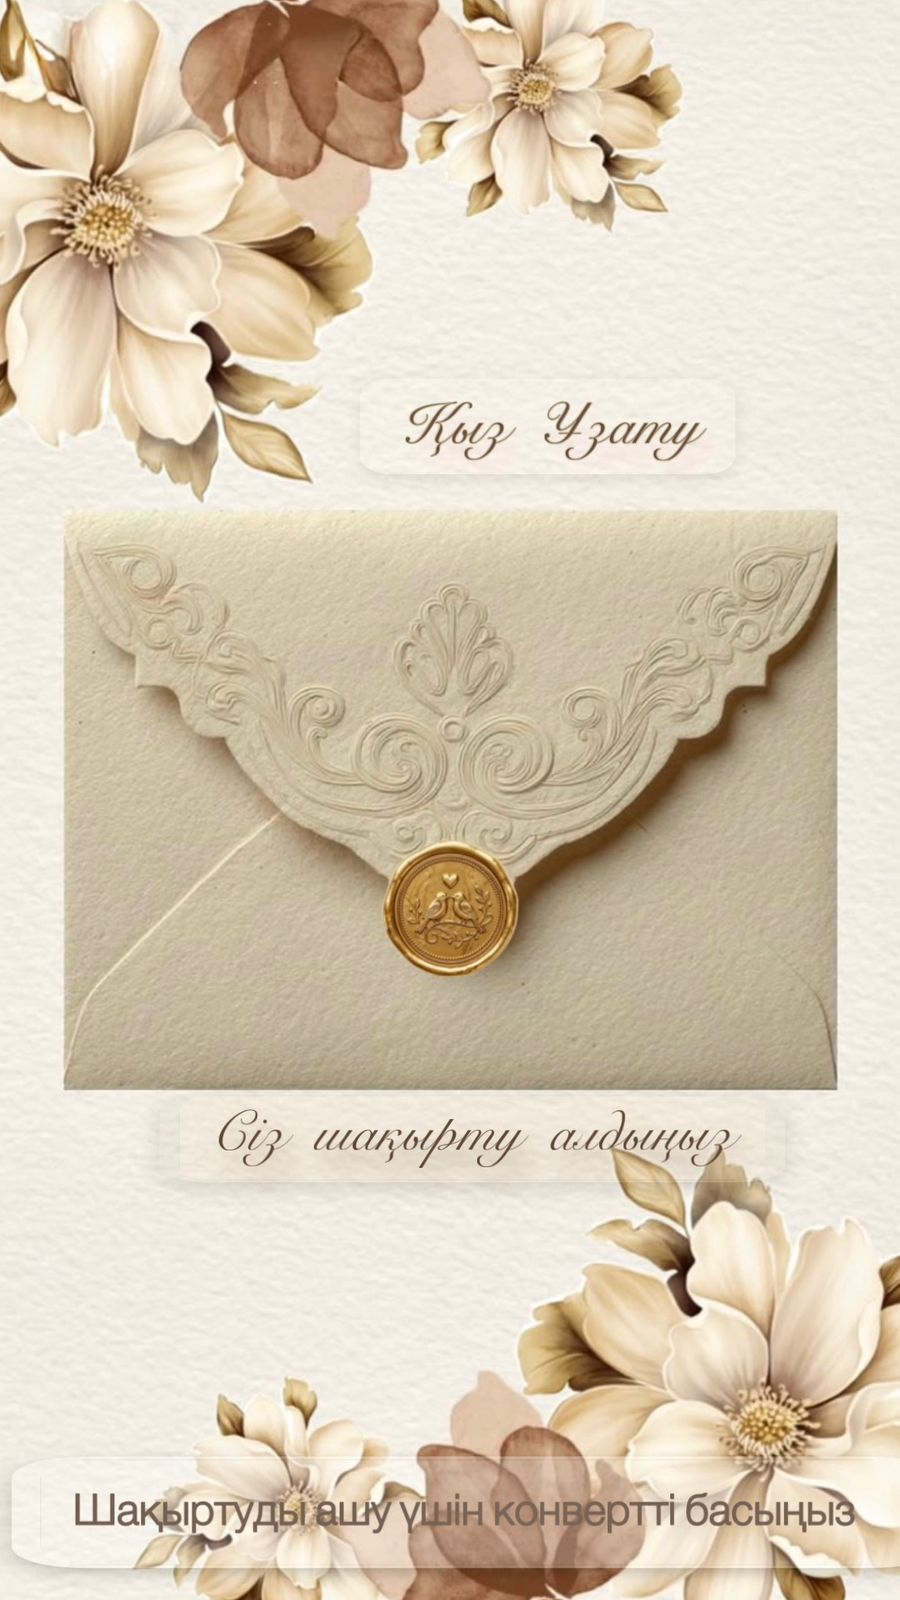
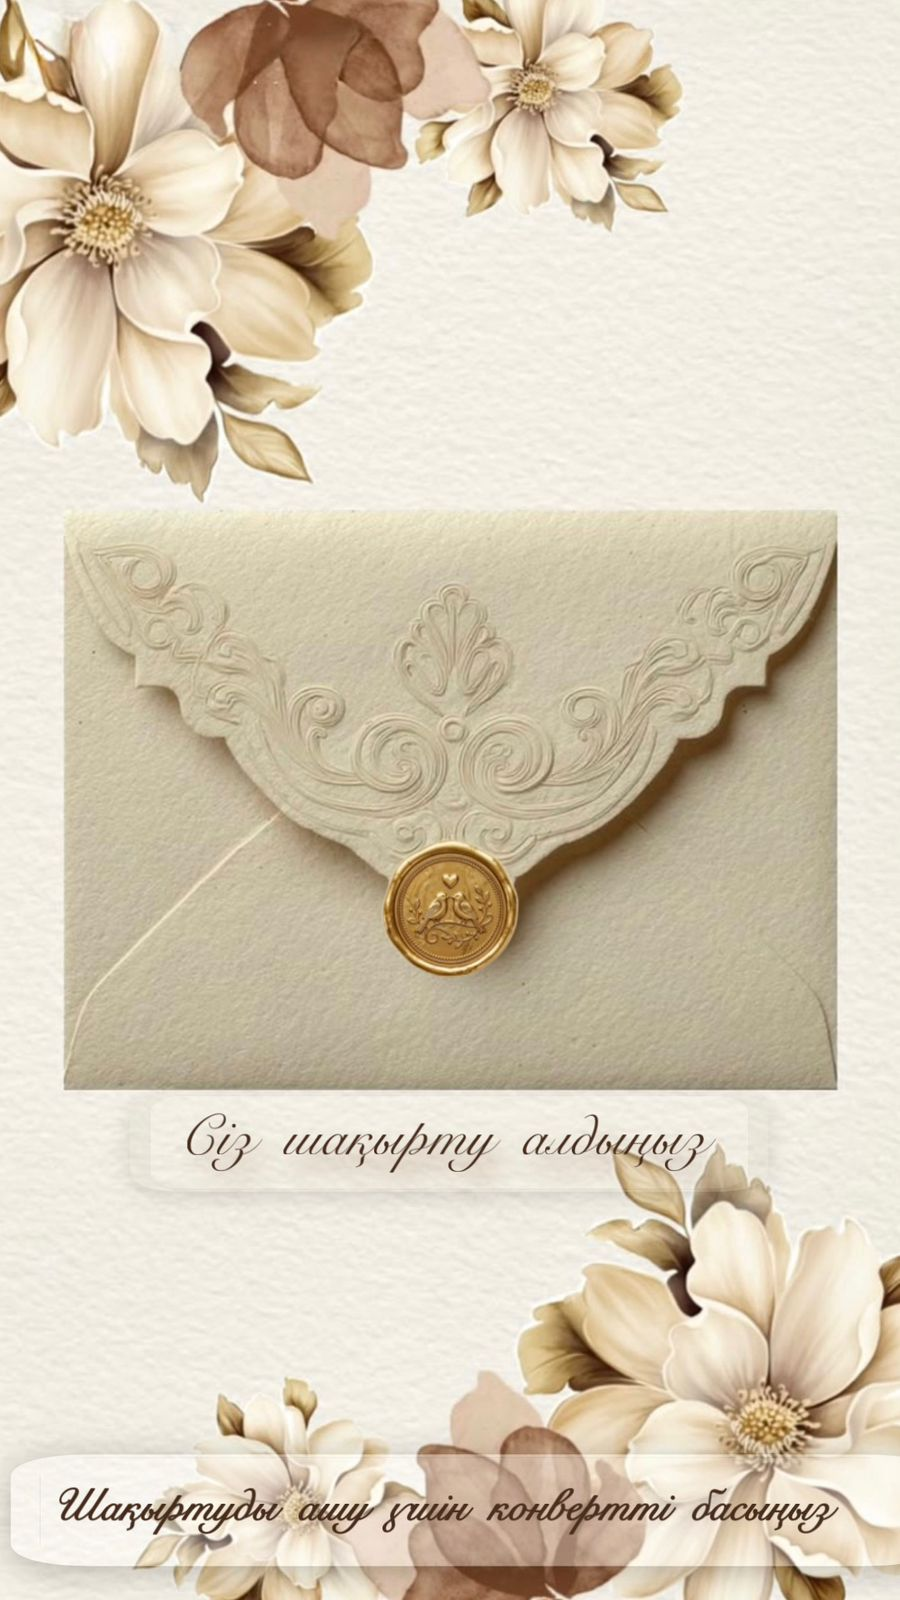
added new png

diff --git a/index.html b/index.html
@@ -486,23 +486,14 @@
 <main id="main" style="display:none;max-width:560px;margin:0 auto;position:relative;">
 
   <!-- ── С1: Заголовочное фото (img/title.jpg) ── -->
-  <section style="line-height:0;display:block;overflow:hidden;">
+  <section style="line-height:0;display:block;overflow:hidden;position:relative;">
     <img class="kenburns" src="img/title.jpg" alt="Гульфайруз — Қыз ұзату" style="width:100%;display:block;object-fit:cover;">
+    <div aria-hidden="true" style="position:absolute;left:0;right:0;bottom:0;height:14%;background:linear-gradient(to bottom, rgba(252,250,245,0) 0%, rgba(252,250,245,.55) 55%, #FCFAF5 100%);pointer-events:none;"></div>
   </section>
 
-  <!-- ── С2: Приветствие ── -->
-  <section data-reveal="greet" class="has-petals" style="
-    background:#EEE4D4;
-    padding:clamp(44px,11vw,68px) clamp(22px,7vw,38px) clamp(38px,9vw,56px);
-    text-align:center;
-    opacity:0;transform:translateY(28px);transition:opacity .6s cubic-bezier(.22,1,.36,1),transform .6s cubic-bezier(.22,1,.36,1);">
-
-    <!-- парящие лепестки -->
-    <div class="petals" aria-hidden="true"><i></i><i></i><i></i><i></i><i></i><i></i></div>
-    <div class="edge-orn eo-right" style="top:9%"></div>
-
-    <!-- Казахский медальон (орнамент) -->
-    <div style="margin:0 auto clamp(20px,5.5vw,30px);width:clamp(110px,32vw,158px);height:clamp(110px,32vw,158px);">
+  <!-- Казахский медальон (орнамент) — ровно на стыке первой и второй картинок -->
+  <div style="position:relative;height:0;">
+    <div style="position:absolute;top:0;left:50%;transform:translate(-50%,-50%);z-index:5;width:clamp(84px,24vw,120px);height:clamp(84px,24vw,120px);filter:drop-shadow(0 2px 6px rgba(60,30,20,.25));">
       <svg class="orn-spin" viewBox="0 0 200 200" width="100%" height="100%" fill="none" xmlns="http://www.w3.org/2000/svg">
         <g transform="translate(100,100)">
           <!-- внешнее кольцо с точками -->
@@ -528,32 +519,27 @@
         </g>
       </svg>
     </div>
+  </div>
 
-    <!-- «Құрметті қонақтар!» -->
-    <div class="rv-words" style="font-family:'Marck Script','Caveat',cursive;font-size:clamp(22px,6.5vw,36px);color:#5B2B26;line-height:1.1;font-weight:400;margin:0 0 clamp(18px,5vw,26px);text-align:center;width:100%;">
-      Құрметті қонақтар!
+  <!-- ── С2: Приветствие ── -->
+  <section data-reveal="greet" class="has-petals" style="
+    text-align:center;
+    opacity:0;transform:translateY(28px);transition:opacity .6s cubic-bezier(.22,1,.36,1),transform .6s cubic-bezier(.22,1,.36,1);">
+
+    <!-- парящие лепестки -->
+    <div class="petals" aria-hidden="true"><i></i><i></i><i></i><i></i><i></i><i></i></div>
+    <div class="edge-orn eo-right" style="top:9%"></div>
+
+    <!-- «Құрметті қонақтар!» — картинка во весь экран, орнамент поверх неё -->
+    <div class="rv-stag" style="position:relative;width:100%;line-height:0;">
+      <img src="img/Guest.jpeg" alt="Құрметті қонақтар! Сіз(дер)ді қызымыз Гульфайруздың ұзату тойына арналған салтанатты ақ дастарханымыздың қадірлі қонағы болуға шақырамыз." style="display:block;width:100%;">
+
+      <!-- плавный переход от предыдущей картинки -->
+      <div aria-hidden="true" style="position:absolute;left:0;right:0;top:0;height:16%;background:linear-gradient(to bottom, #FCFAF5 0%, rgba(252,250,245,.5) 45%, rgba(252,250,245,0) 100%);pointer-events:none;"></div>
+
+      <!-- плавный переход к следующей картинке -->
+      <div aria-hidden="true" style="position:absolute;left:0;right:0;bottom:0;height:12%;background:linear-gradient(to bottom, rgba(238,233,222,0) 0%, rgba(238,233,222,1) 100%);pointer-events:none;"></div>
     </div>
-
-    <!-- перечень гостей -->
-    <p class="rv-stag" style="font-family:'PT Serif','Times New Roman',serif;font-size:clamp(13px,3.5vw,15.5px);line-height:2;letter-spacing:.04em;text-transform:uppercase;color:#5B2B26;margin:0 0 clamp(16px,4.5vw,24px);">
-      Құрметті ағайын-туыс,<br>
-      бауырлар, құда-жекжат,<br>
-      нағашы-жиен, бөлелер,<br>
-      құрбы-құрдас, әпке-<br>
-      жезделер, дос-жарандар,<br>
-      әріптестер, көршілер!
-    </p>
-
-    <!-- приглашение -->
-    <p class="rv-stag" style="font-family:'PT Serif','Times New Roman',serif;font-size:clamp(13px,3.5vw,15.5px);line-height:2;letter-spacing:.04em;text-transform:uppercase;color:#5B2B26;margin:0;">
-      Сіз(дер)ді қызымыз<br>
-      Гульфайруздың ұзату<br>
-      тойына арналған<br>
-      салтанатты ақ<br>
-      дастарханымыздың<br>
-      қадірлі қонағы болуға<br>
-      шақырамыз.
-    </p>
   </section>
 
   <!-- ── С3: Той иелері (фото платья + текст) ── -->
@@ -605,6 +591,9 @@
           Жәнібек-Баршагүл
         </div>
       </div>
+
+      <!-- плавный переход в фон следующей секции -->
+      <div aria-hidden="true" style="position:absolute;left:0;right:0;bottom:0;height:16%;background:linear-gradient(to bottom, rgba(238,228,212,0) 0%, #EEE4D4 100%);pointer-events:none;"></div>
     </div>
   </section>
 
@@ -653,6 +642,9 @@
     opacity:0;transform:translateY(28px);transition:opacity .6s cubic-bezier(.22,1,.36,1),transform .6s cubic-bezier(.22,1,.36,1);">
   <!-- светлый оверлей чтобы текст читался -->
   <div style="position:absolute;inset:0;background:rgba(240,230,215,.82);pointer-events:none;"></div>
+  <!-- плавные переходы к соседним секциям (фон belt.jpg обрезается непредсказуемо) -->
+  <div aria-hidden="true" style="position:absolute;left:0;right:0;top:0;height:10%;background:linear-gradient(to bottom, rgba(238,228,212,1) 0%, rgba(238,228,212,0) 100%);pointer-events:none;"></div>
+  <div aria-hidden="true" style="position:absolute;left:0;right:0;bottom:0;height:10%;background:linear-gradient(to bottom, rgba(238,228,212,0) 0%, rgba(238,228,212,1) 100%);pointer-events:none;"></div>
   <!-- контент поверх оверлея -->
   <div style="position:relative;z-index:1;">
 
